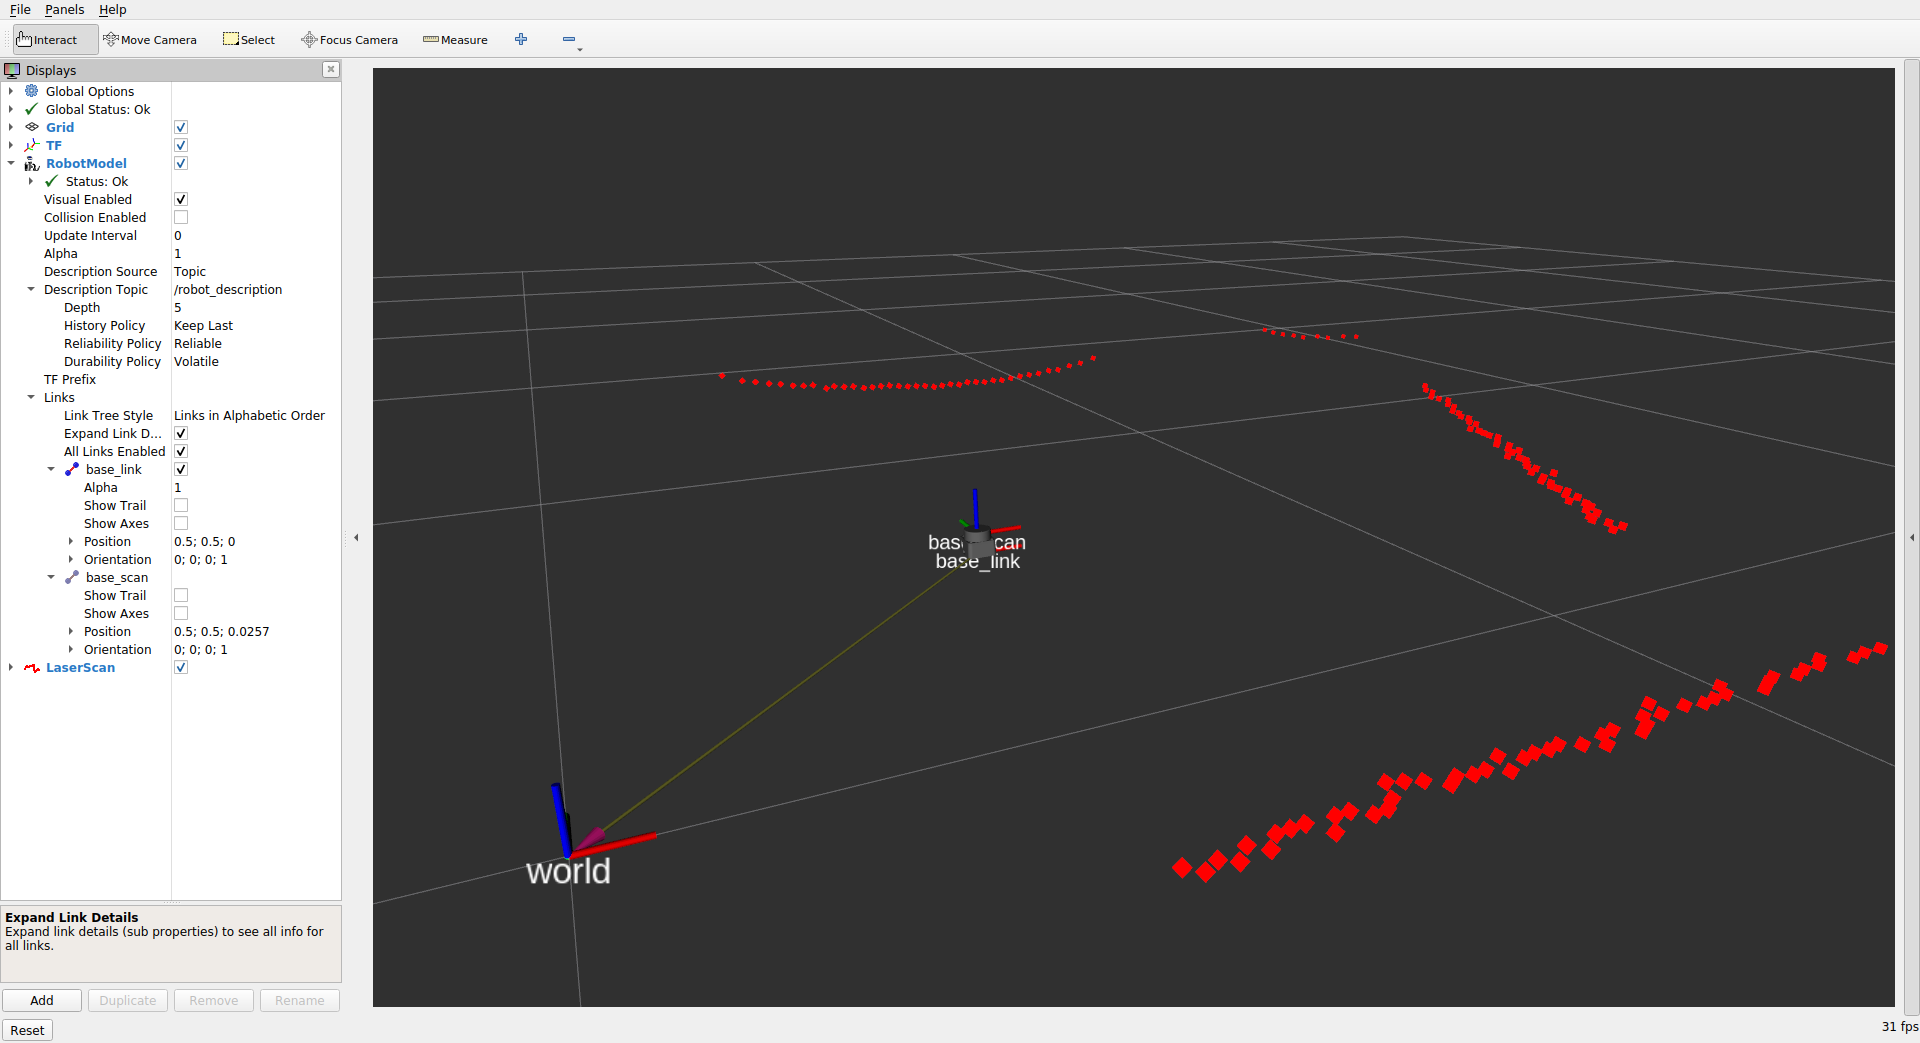
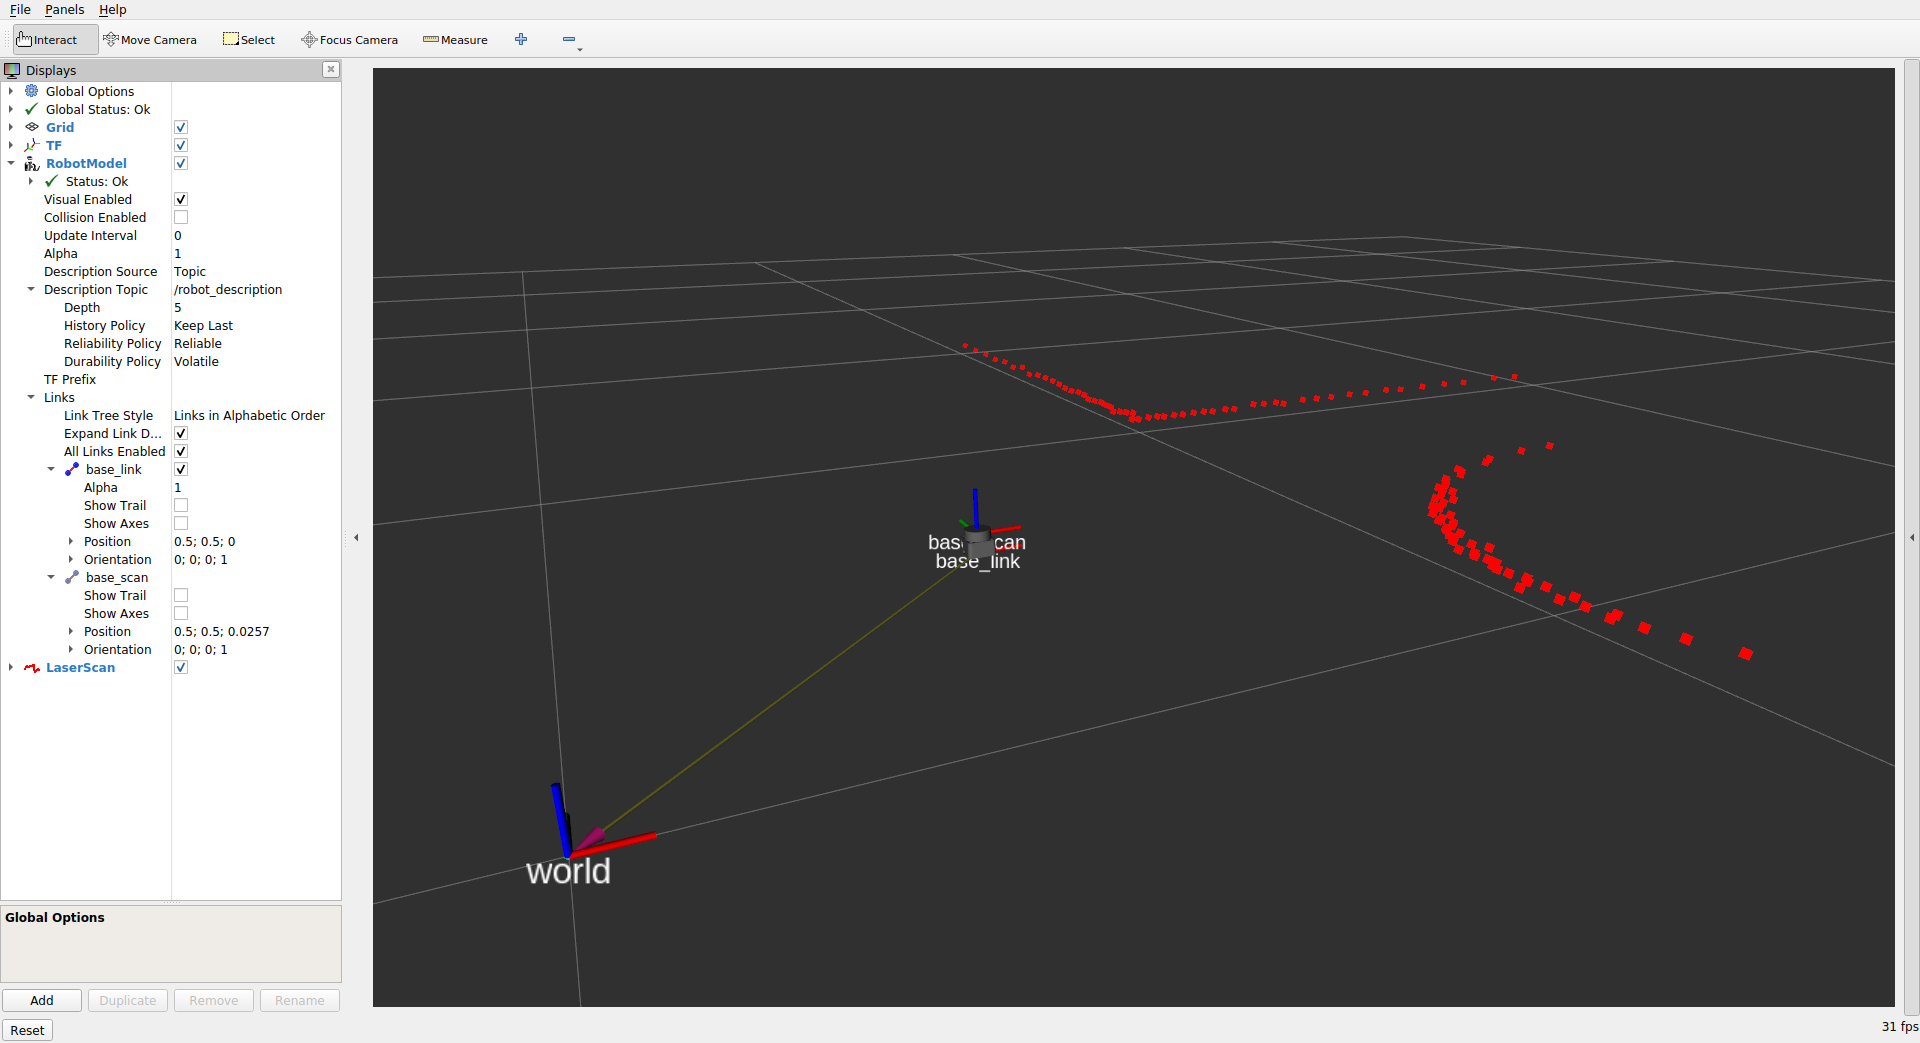
Obstacle model (#6)
* add obstacle models

* update launch

* update assets, readme

diff --git a/launch/ld06_sim.launch.py b/launch/ld06_sim.launch.py
@@ -8,7 +8,6 @@ from launch_ros.actions import Node
 from launch import LaunchDescription
 from launch.actions import IncludeLaunchDescription
 from launch.launch_description_sources import PythonLaunchDescriptionSource
-from launch.substitutions import LaunchConfiguration
 
 
 def generate_launch_description():
@@ -28,11 +27,25 @@ def generate_launch_description():
         PythonLaunchDescriptionSource(os.path.join(pkg_gazebo_ros, "launch", "gzclient.launch.py"))
     )
 
-    spawn_entity_node = Node(
+    spawn_ld06_node = Node(
         package="gazebo_ros",
         executable="spawn_entity.py",
         output="screen",
-        arguments=["-entity", "ld06_model", "-database", "ld06", "-x", "0.5", "-y", "0.5"],
+        arguments=["-entity", "ld06", "-database", "ld06", "-x", "0.5", "-y", "0.5"],
+    )
+
+    spawn_unit_box_node = Node(
+        package="gazebo_ros",
+        executable="spawn_entity.py",
+        output="screen",
+        arguments=["-entity", "unit_box", "-database", "unit_box", "-x", "1.5", "-y", "1.5"],
+    )
+
+    spawn_unit_cylinder_node = Node(
+        package="gazebo_ros",
+        executable="spawn_entity.py",
+        output="screen",
+        arguments=["-entity", "unit_cylinder", "-database", "unit_cylinder", "-x", "1.5", "-y", "0"],
     )
 
     robot_state_publisher_node = Node(
@@ -65,7 +78,9 @@ def generate_launch_description():
 
     ld.add_action(gzserver_launch)
     ld.add_action(gzclient_launch)
-    ld.add_action(spawn_entity_node)
+    ld.add_action(spawn_ld06_node)
+    ld.add_action(spawn_unit_box_node)
+    ld.add_action(spawn_unit_cylinder_node)
     ld.add_action(robot_state_publisher_node)
     ld.add_action(static_transform_publisher_node)
     ld.add_action(rviz2_node)

diff --git a/setup.py b/setup.py
@@ -14,6 +14,8 @@ setup(
         ("share/" + package_name, ["package.xml"]),
         (os.path.join("share", package_name, "models/ld06"), glob("models/ld06/*.sdf")),
         (os.path.join("share", package_name, "models/ld06"), glob("models/ld06/*.config")),
+        (os.path.join("share", package_name, "models/unit_box"), glob("models/unit_box/*")),
+        (os.path.join("share", package_name, "models/unit_cylinder"), glob("models/unit_cylinder/*")),
         (os.path.join("share", package_name, "models/ld06/meshes"), glob("models/ld06/meshes/*")),
         (os.path.join("share", package_name, "description/urdf"), glob("description/urdf/*.urdf")),
         (os.path.join("share", package_name, "description/meshes"), glob("description/meshes/*")),

diff --git a/README.md b/README.md
@@ -5,8 +5,6 @@
 ros2 launch ld06_sim ld06_sim.launch.py
 ```
 
-Add some models in Gazebo.
-
 ### Results
 #### gazebo
 ![](assets/gazebo.png)
@@ -16,10 +14,6 @@ Add some models in Gazebo.
 
 #### rqt_graph
 ![](assets/rosgraph.png)
-
-## TODO
-- Gazeboに生成するモデルへのテクスチャの設定
-- LiDARによる計測対象の障害物をlaunch時に自動でGazebo環境中に生成
 
 ## Notes
 rviz2上にRobotModelを表示する際はrviz側のPolicyの設定に注意．現状`Reliability Policy`について，`Best Effort`ではなく，`Reliable`を指定すると上記のようにモデルを表示できることが分かっている．
